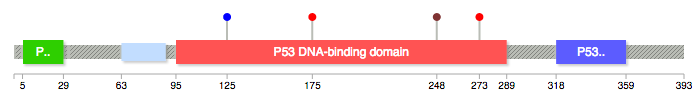
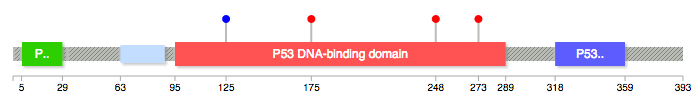
updating examples for new features

diff --git a/README.md b/README.md
@@ -12,11 +12,20 @@ are provided, it will also annotate them to the diagram using the
 Example
 -------
 
-    ./lollipops -w=700 TP53 R273C R175H T125 R248Q#7f3333
+Basic usage is just the gene symbol (ex: ``TP53``) and a list of
+mutations (ex: ``R273C R175H T125 R248Q``)
 
-Results in the following SVG image:
+    ./lollipops TP53 R273C R175H T125 R248Q
 
-![TP53 Lollipop diagram with 3 marked mutations](tp53.png?raw=true)
+![TP53 Lollipop diagram with 4 marked mutations](tp53.png?raw=true)
+
+More advanced usage allows for per-mutation color (e.x. sample type) and
+size specification (i.e. denoting number of samples), along with text
+labels and more:
+
+		./lollipops -labels TP53 R248Q#7f3333@131 R273C R175H T125@5
+
+![TP53 Lollipop diagram with 5 customized mutations](tp53_more.png?raw=true)
 
 Usage
 -----
